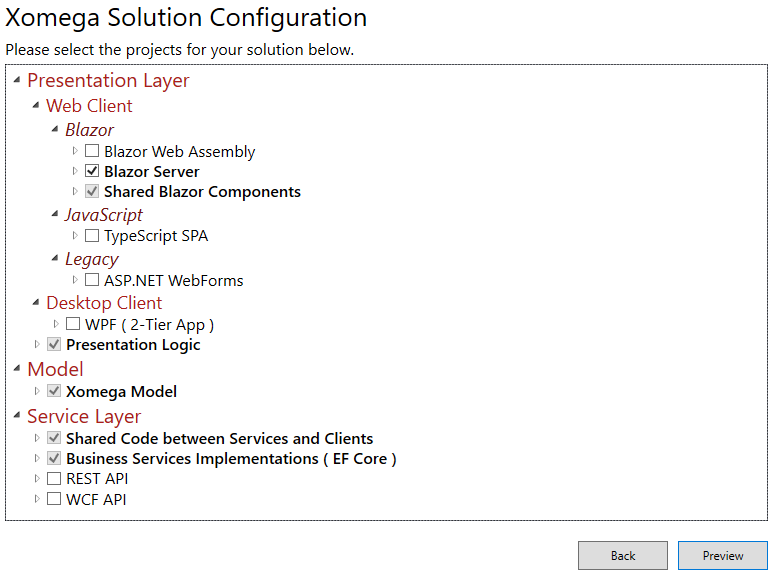
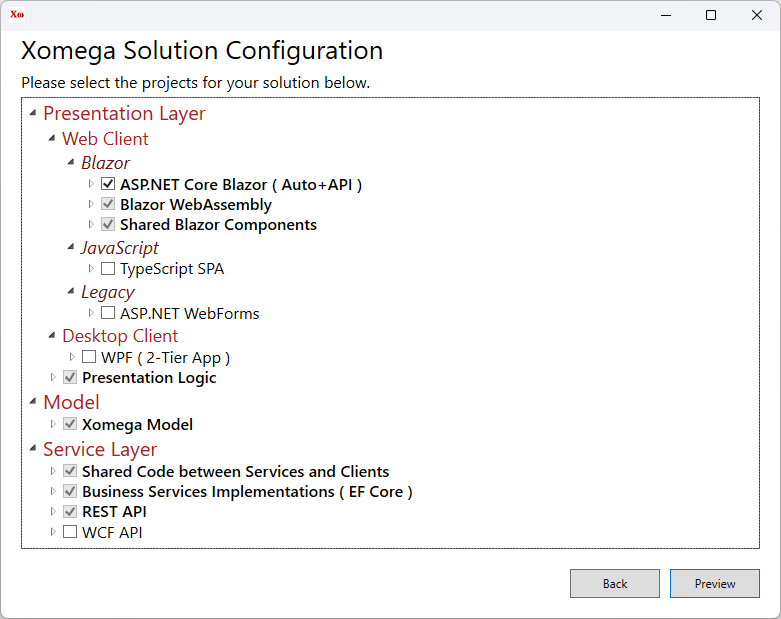
Updated docs on solution wizard and structure for 9.12.0 release.

diff --git a/docs/visual-studio/new-projects/adding-to-solution.md b/docs/visual-studio/new-projects/adding-to-solution.md
@@ -12,13 +12,15 @@ The wizard will configure any new projects that you will add, but it **won't upd
 You will need to make any such updates to the existing projects manually.
 :::
 
-## Example: Adding WebAssembly to Blazor Server
+## Example: Adding WPF client to a Blazor app
 
-For example, let's imagine that you initially created a `DemoSolution` for just the *Blazor Server* technology, which would look as follows.
+For example, let's imagine that you initially created a `DemoSolution` for Blazor Server + WebAssembly, but *with standalone REST API* that is not hosted by the Blazor project. Your solution structure would look as follows.
 
-![DemoSolution](img/blazor-server.png)
+![DemoSolution](img/blazor-auto.png)
 
-Now you decided to add support for *Blazor WebAssembly* to your solution. To add the relevant projects, you can right-click on the *Solution* node, select *Add > New Project*, and pick `Xomega` as the project type, as follows.
+### Adding a new Xomega project
+
+Now you decided to also add a desktop WPF client to your solution, which would use the existing REST API as the backend. To add the relevant projects, you can right-click on the *Solution* node, select *Add > New Project*, and pick `Xomega` as the project type, as follows.
 
 ![Add new project](img/add-new-project.png)
 
@@ -26,32 +28,87 @@ In the next screen, you can leave the project name to be the default value.
 
 ![New project name](img/new-project-name.png)
 
-This *Project name* won't matter since you can specify the project names in the Xomega solution configuration wizard, which will open up after you hit the *Create* button.
+This *Project name* won't matter since the wizard will use the existing solution name to generate a default name for the new project, which you can also update later.
 
-### Adding Web Assembly projects
+### Adding WPF desktop client
 
-The existing solution projects displayed in the Xomega solution configuration will not be editable, but you can add *Blazor Web Assembly* to the selection, which will also automatically select the *REST API* project, as follows.
+The existing solution projects displayed in the Xomega solution configuration will not be editable, but you will be able to add a *WPF* desktop client to the selection and set the *API Tier* to `REST API`, as illustrated below.
 
-![Add wasm & rest](img/add-wasm-rest.png)
+![Add WPF with rest](img/add-wpf-rest.png)
 
 :::note
 Notice how the default project names are automatically generated based on the solution name here, and disregard the project name that you supplied in the previous screen.
 :::
 
-Once you finish adding the projects, you'll see the two new projects in your solution, preconfigured with proper dependencies on any existing projects, as shown below.
+After you hit *Preview* and then *Create*, you'll see the new project in your solution, preconfigured with proper dependencies on any existing projects, as shown below.
 
-![Wasm solution](img/wasm-solution.png)
+![WPF solution](img/wpf-solution.png)
 
 ### Additional manual updates
 
-In order to finish setting up the new projects, you'll need to make the following updates manually.
+Now you have to update and configure any existing projects to support the newly added projects. Normally, when creating a new solution from scratch, those projects are automatically configured for the selected technologies by the solution wizard. However, since we added a new project to an existing solution, we'll need to configure the existing projects manually.
 
-- Open properties of the *Service Layer > Web API Controllers* generator, set `Include In Build` parameter to `True`, and make sure that the output paths match the name of the new `.Services.Rest` project, and then run the generator.
-- Open properties of the *Presentation Layer > Common > REST Service Clients* generator, set `Include In Build` parameter to `True`, and make sure that the output paths match the name of the existing `.Client.Common` project, and then run the generator.
-- Set the `Generate Rest Methods` parameter to `True` on the *Full CRUD with Views* and *Read Enum Operation*, as well as on any other model enhancement generators that have this parameter, for future runs.
+To make this process easier you should open another instance of Visual Studio and [create a new Xomega solution](new-solutions) for the WPF client with REST API in a separate folder, using the same solution name `DemoSolution`, which you'll use as a template. This will allow you to just copy any configuration from that folder into your existing solution.
 
-If you have already run the model enhancement generators and added operations without REST methods, you will need to add `rest:method` configurations to those operations as appropriate.
+#### Adding WPF controls type configs
 
-:::tip
-To easily set up existing operations with a default `rest:method` configuration, you can create a copy of the *Read Enum Operation* generator, set all parameters except for the `Generate Rest Methods` to `False`, and then run that generator on the existing objects with operations.
-:::
+Copy the `DemoSolution.Model\Framework\TypeConfigs\wpf_controls.xom` from the new template WPF solution that you created earlier to your existing solution. Then, in the existing solution, select the `DemoSolution.Model` project in *Solution Explorer*, click *Show All Files*, right-click on the `wpf_controls.xom` that you copied and select *Include In Project*.
+
+#### Adding WPF Views generator
+
+To add any generators to the *Model* project, right-click on that project and select *Unload Project*. This will allow you to edit the `DemoSolution.Model.xomproj` file directly in Visual Studio.
+
+To add a *WPF Views* generator, copy the generator configuration from the template WPF solution project to your existing project, as illustrated below.
+
+```xml title='DemoSolution.Model.xomproj'
+...
+</XomGenerator>
+<!-- added-lines-start -->
+<XomGenerator Include="$(XomegaHome17)Xsl\wpf_views.xsl">
+  <Name>WPF Views</Name>
+  <Folder>Presentation Layer\WPF</Folder>
+  <CustomPath-param>
+  </CustomPath-param>
+  <CustomPath-desc>
+	Path where to output override classes for the generated Views.
+	If not set then the OutputPath will be used. The path must contain {File} placeholder to output files by view.
+  </CustomPath-desc>
+  <CustomPath-category>Output</CustomPath-category>
+  <OutputPath-param>../DemoSolution.Client.Wpf/Views/{Module/}{File}</OutputPath-param>
+  <OutputPath-desc>Path where to output files with generated WPF views. Path must contain {File} placeholder.</OutputPath-desc>
+  <OutputPath-category>Output</OutputPath-category>
+  <RegistryFile-param>../DemoSolution.Client.Wpf/Views/Views.cs</RegistryFile-param>
+  <RegistryFile-desc>A path to the file for views registration.</RegistryFile-desc>
+  <RegistryFile-category>Output</RegistryFile-category>
+  <MenuFile-param>../DemoSolution.Client.Wpf/Controls/MainMenu</MenuFile-param>
+  <MenuFile-desc>Path where to output generated menu resources without extension.</MenuFile-desc>
+  <MenuFile-category>Output</MenuFile-category>
+  <Namespace-param>DemoSolution.Client.Wpf</Namespace-param>
+  <Namespace-desc>Namespace for the generated views.</Namespace-desc>
+  <View-param></View-param>
+  <View-desc>The name of the view from the model to generate a view for.</View-desc>
+  <View-category>Selector</View-category>
+  <IncludeInBuild>true</IncludeInBuild>
+  <IndividualFiles>true</IndividualFiles>
+  <GeneratorGroup>presentation</GeneratorGroup>
+</XomGenerator>
+<!-- added-lines-end -->
+<XomGenerator Include="C:\Program Files\Xomega.Net\9.12\Xsl\enum_cache.xsl">
+...
+```
+
+Save the `DemoSolution.Model.xomproj` file, and then right-click on the `DemoSolution.Model` project in the *Solution Explorer* and select *Reload Project*. You should now be able to see the *WPF Views* generator under the *Generators > Presentation Layer > WPF* folder, as well as the `wpf_controls.xom` that you included earlier, as shown below.
+
+![WPF Views](img/wpf-views.png)
+
+Now you want to right-click on the `DemoSolution.Model` project and select *Build* to generate any additional artifacts for the new project.
+
+#### Other possible updates
+
+If you initially had the REST API hosted by the Blazor application rather than as a standalone service, then you would need to do some additional updates, as described below.
+
+- Copy the `DemoSolution.Services.Rest/Program.cs` file from the template solution to the existing REST API project to allow running it separately.
+- Update the `DemoSolution.Services.Rest/AuthController` class to enable JWT authentication using the corresponding code from the template solution.
+- Copy `DemoSolution.Client.Common/ServiceClients/Auth/JwtLoginServiceClient.cs` from the template solution to handle JWT authentication on the client.
+
+Any other initial configurations or a different configuration of the new project may require additional manual updates, as appropriate.

diff --git a/docs/visual-studio/new-projects/new-solutions.md b/docs/visual-studio/new-projects/new-solutions.md
@@ -7,9 +7,7 @@ sidebar_position: 1
 Xomega.Net adds a new project template to Visual Studio that allows you to create and configure your solution for a specific architecture.
 
 :::danger
-This documentation applies only to the current versions of Xomega.Net **for Visual Studio 2022 or 2019**.
-
-The older version of *Xomega.Net for Visual Studio 2017* provides multiple pre-configured solution templates to select from without the ability to configure them further interactively.
+This documentation applies only to the current version of Xomega.Net **for Visual Studio 2022**.
 :::
 
 ## Xomega project template
@@ -22,7 +20,7 @@ To create a new Xomega solution, select the *New Project* option in your Visual 
 
 ![Solution template](img/solution-template.png)
 
-Select the* Xomega Solution* template, and click *Next* to get to the following screen.
+Select the *Xomega Solution* template, and click *Next* to get to the following screen.
 
 ![Configure project](img/configure-project.png)
 
@@ -34,19 +32,19 @@ You should see a *Xomega Solution Configuration* screen, which allows you to pic
 
 Usually, you just need to pick the main client-side technology, and any other projects that are required for your selection will be automatically included in the solution as well.
 
-The following picture shows the required projects for the *Blazor Server* technology.
+The following picture shows the required projects for the *Blazor* technology that includes *Blazor Server* and *Blazor WebAssembly* with `InteractiveAuto` rendering mode, and has a hosted REST API for the *WebAssembly*.
 
 ![Solution projects](img/solution-projects.png)
 
 If you want to target several technologies at the same time, such as WPF, you can select additional projects here, and they'll share most of the presentation and business logic of your solution.
 
-Similarly, you can pick additional service layer projects, e.g., to expose your services via REST API. This will allow you to build a 3-tier WPF app that communicates to the business services middle tier via REST API rather than an old-style 2-tier desktop app that calls the database directly.
+Similarly, you can pick additional service layer projects, e.g., to expose your services via WCF API to some legacy clients that cannot consume REST API for some reason.
 
 ## Reviewing solution configuration
 
 Once you select the projects for your solution, you can click *Preview* to view and update the configuration of the selected projects.
 
-You can customize the name of each project and specify project-specific options, such as which Blazor components to use, as shown below.
+You can customize each project's name and select project-specific options, such as which Blazor components to use, as shown below.
 
 ![Blazor config](img/blazor-config.png)
 
@@ -54,49 +52,53 @@ You can customize the name of each project and specify project-specific options,
 You can also specify this configuration for each project on the previous screen by expanding the corresponding projects.
 :::
 
+Some key configuration of a project may be also displayed next to that project in parenthesis, e.g. *( Auto + API )*.
+
+:::warning
+Changing some configurations may result in other projects becoming included or excluded. For example, if you uncheck the *WebAssembly rendering* option, this will remove the *Blazor WebAssembly* and *REST API* projects from the selection.
+:::
+
 ### Solution configuration parameters
 
-Here's the full list of parameters that you can configure for different solution projects.
+Below is the full list of parameters that you can configure for different solution projects.
 
-- **Blazor WebAssembly**
+- **ASP.NET Core Blazor** - the main project for Blazor solutions.
   - *Project* - the name of the project to use.
-  - *Hosting* - the hosting model to use as follows.
-    - `None` - self-hosting model.
-    - `ASP.NET Core` - hosted in the ASP.NET Core project specified by the *Blazor Server* selection.
-- **Blazor Server**
+  - *Interactive Server rendering* - use Blazor Server for interactive screens.
+  - *WebAssembly rendering* - host and use Blazor WebAssembly for interactive screens. If *Interactive Server rendering* option is also selected, the solution will use the `InteractiveAuto` rendering mode.
+  - *REST API hosting* - host REST API for WebAssembly in this Blazor project rather than as a standalone project.
+- **Blazor WebAssembly** - part of the main Blazor project, if *WebAssembly rendering* is selected. Otherwise, a standalone WebAssembly project with a separate REST API.
   - *Project* - the name of the project to use.
-- **Shared Blazor Components**
+- **Shared Blazor Components** - components shared between Blazor Server and WebAssembly projects.
   - *Project* - the name of the project to use.
   - *Components* - Blazor component library to use, as follows.
     - `Xomega Framework Blazor` - standard Bootstrap-styled Blazor components for Xomega Framework.
     - `Xomega Syncfusion Blazor` - Syncfusion Blazor components adapted for Xomega Framework.
-- **TypeScript SPA**
+- **TypeScript SPA** - TypeScript-based web client that uses [XomegaJS](https://github.com/Xomega-Net/XomegaJS) and `knockout.js` frameworks.
   - *Project* - the name of the project to use.
-- **ASP.NET WebForms**
+- **ASP.NET WebForms** - legacy ASP.NET web client.
   - *Project* - the name of the project to use.
-- **WPF**
+- **WPF** - desktop client for WPF applications.
   - *Project* - the name of the project to use.
   - *API Tier* - the way the app will access business services, as follows.
     - `2-Tier App` - business services are built into the app, which will access the DB directly.
     - `REST API` - business services are hosted separately and accessed via REST API.
     - `WCF API` - business services are hosted separately and accessed via WCF API.
-- **Presentation Logic**
+- **Presentation Logic** - presentation logic that can be shared between all clients.
   - *Project* - the name of the project to use.
-- **Xomega Model**
+- **Xomega Model** - project for modeling your domain and service models, from which application layers are generated.
   - *Project* - the name of the project to use.
-- **Shared Code between Services and Clients**
+- **Shared Code between Services and Clients** - DTOs, service interfaces and other shared code.
   - *Project* - the name of the project to use.
-  - *Operations* - synchronous or asynchronous way service operations are defined as follows.
-    - `Asynchronous` - service operations are async, which should be used for most configurations.
-    - `Synchronous` - service operations are synchronous, which should be used in very special legacy cases.
-- **Business Services Implementations**
+  - *Use Async operations* - use asynchronous service operations. Synchronous operations should be used in very special legacy cases.
+- **Business Services Implementations** - domain entities and implementations of service interfaces.
   - *Project* - the name of the project to use.
   - *ORM* - Object-Relational Mapping framework to use, as follows.
     - `EF Core` - use newer Entity Framework Core.
     - `EF 6.x` - use older Entity Framework 6.x.
-- **REST API**
+- **REST API** - controllers for exposing business services via REST API.
   - *Project* - the name of the project to use.
-- **WCF API**
+- **WCF API** - business services exposed via legacy WCF API.
   - *Project* - the name of the project to use.
 
 We will describe the details of each project in the [next section](solution-structure). Normally, you can just stick to the default configuration for most components and then click the *Create* button to create your solution.

diff --git a/docs/visual-studio/new-projects/solution-structure.md b/docs/visual-studio/new-projects/solution-structure.md
@@ -64,7 +64,7 @@ The project also includes a `DbContextValidation` class that has some helper val
 
 This project allows exposing business services implemented in the `.Services.Entities` project via REST API using ASP.NET Core.
 
-Initially, it will have an `App_Start` folder that contains the startup and configuration code, as well as a sample `AuthenticationController` for password-based authentication.
+Initially, it will have a `Program` file that contains the startup and configuration code, as well as an `AuthController` class for password-based authentication.
 
 Once you define RESTful operations in the Xomega model, it will also have generated controllers for those services and operations.
 
@@ -107,33 +107,31 @@ In addition to the classes, this project also contains the following common reso
 
 ### SolutionName.Client.Blazor.Common
 
-This project contains Blazor views, components, and other resources that can be shared between *Blazor Server* and *Blazor Web Assembly* projects.
+This project contains Blazor views, components, and other resources that can be shared between *Blazor Server* and *Blazor WebAssembly* projects.
 
 :::info
 The project should have **no dependencies** on ASP.NET Core or the specific flavor of the Blazor implementation to remain sharable between different types of Blazor clients.
 :::
 
 The project contains the following folders and files.
-- **Components** folder contains shared Blazor components, such as the `MainLayout`, `LoginDisplay`, and `NotAuthenticated` component.
+- **Components** folder contains shared Blazor components, such as the `MainLayout` and `LoginDisplay` components.
 - **Views** folder contains generated and custom Blazor views and a menu structure, including a home page.
 - **wwwroot** folder contains shared resources such as CSS files, javascript, and images.
 - `App.razor` file defines the main application component.
 
-### SolutionName.Client.Blazor.Server
-
-This project contains ASP.NET Core startup and setup code for a *Blazor Server* client that uses application views and components from the `.Client.Blazor.Common` project.
-
-The **Pages** folder contains the main `_Host.cshtml` razor page for the app, as well as additional razor pages `SignIn.cshtml` and `SignOut.cshtml` that help you with cookie-based Blazor authentication using Xomega Framework support.
-
 ### SolutionName.Client.Blazor.Wasm
 
-This project contains ASP.NET Core Web Assembly startup and setup code for a *Blazor Web Assembly* client that uses application views and components from the `.Client.Blazor.Common` project.
+This project contains WebAssembly startup and setup code for a *Blazor WebAssembly* client that uses application views and components from the `.Client.Blazor.Common` project. It also includes WebAssembly-specific implementation classes for authentication and authorization.
 
-It has the main `index.html` page for the app under the **wwwroot** folder and a custom `AuthenticationStateProvider` implementation that helps configure Blazor Web Assembly authentication for Xomega Framework.
+Standalone WebAssembly projects that are not hosted by the main Blazor app will have a main `index.html` page for the app under the **wwwroot** folder.
+
+### SolutionName.Client.Blazor
+
+This is the main Blazor project that contains ASP.NET Core startup and setup code for a Blazor Server client and hosted REST API, as appropriate. It  uses application views and components from the `.Client.Blazor.Common` project, and references the `.Client.Blazor.Wasm` WebAssembly project when the latter is hosted by this Blazor app.
 
 ### SolutionName.Client.Wpf
 
-This project contains the code for a WPF desktop client for your application that targets .NET5. The root folder contains the main application in the `App.xaml` files, the main window in the `MainView.xaml` files, and other application files in sub-folders, as follows.
+This project contains the code for a WPF desktop client for your application that targets .NET 8. The root folder contains the main application in the `App.xaml` files, the main window in the `MainView.xaml` files, and other application files in sub-folders, as follows.
 
 - **App_Start** folder contains DI-enabled application initialization code.
 - **Controls** folder contains common WPF controls that are used in the application views, e.g., for displaying errors.

diff --git a/docs/visual-studio/install/installation.md b/docs/visual-studio/install/installation.md
@@ -42,12 +42,12 @@ For building modern Blazor apps, Xomega.Net requires the following components to
 
 - Windows 10 or higher
 - Visual Studio 2022 Community or higher
-- .NET 7 or .NET 6
+- .NET 8
 
 For building legacy .NET applications, you may also use the following components (not recommended):
 
 - Windows 7 or higher
 - Visual Studio 2017 Community or higher
-- .NET Framework 4.5 or higher
+- .NET Framework 4.7.2 or higher
 
 To view the notices for licensed third-party software components included within Xomega.Net please [click here](third-party).
